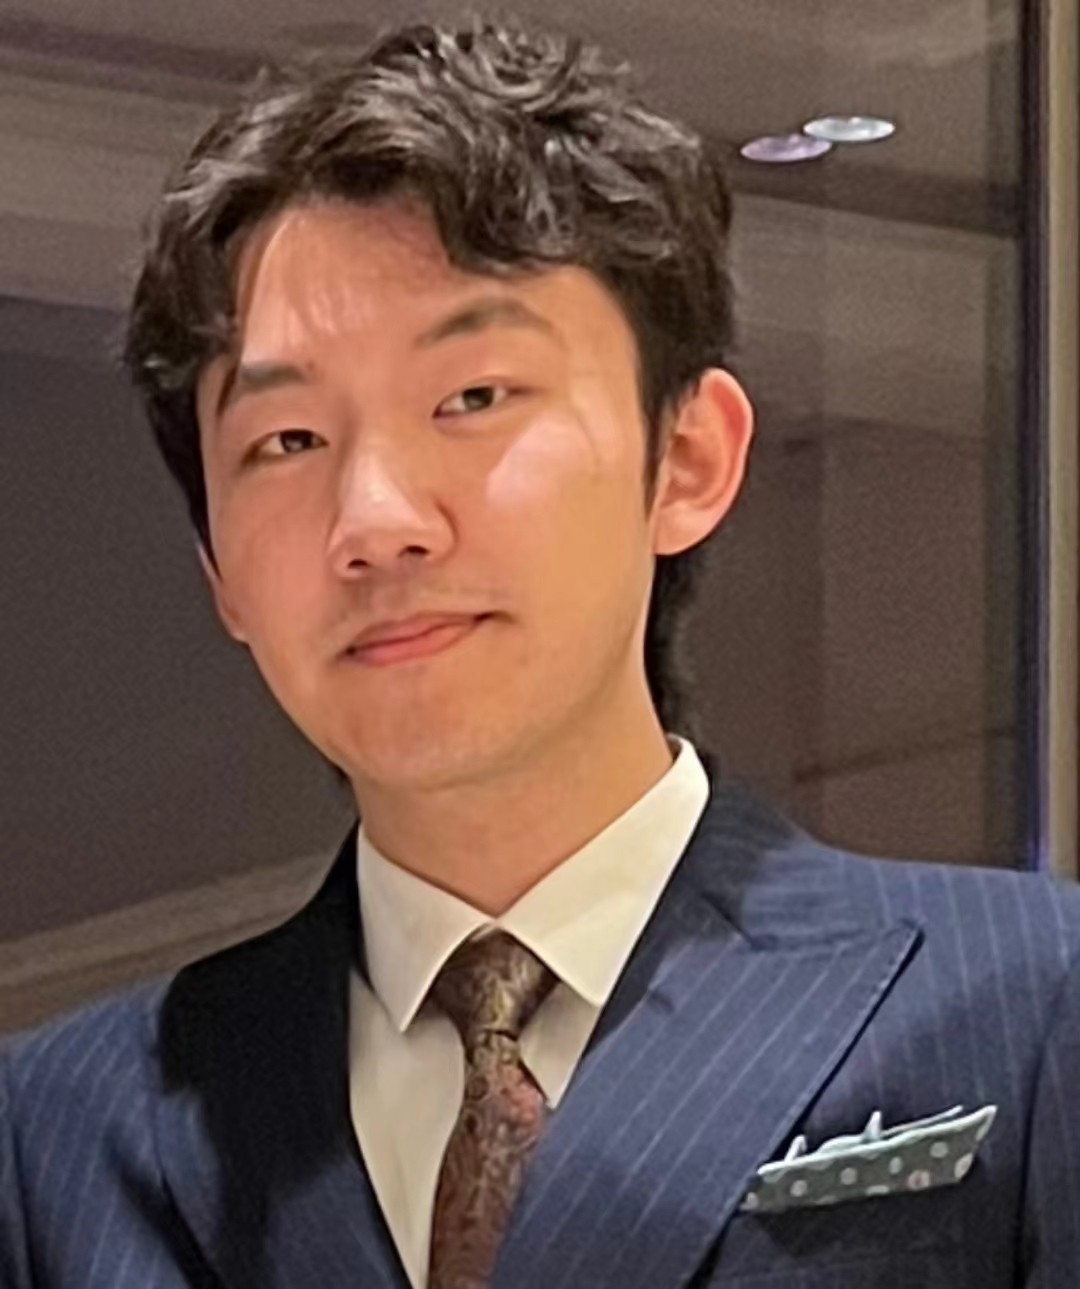
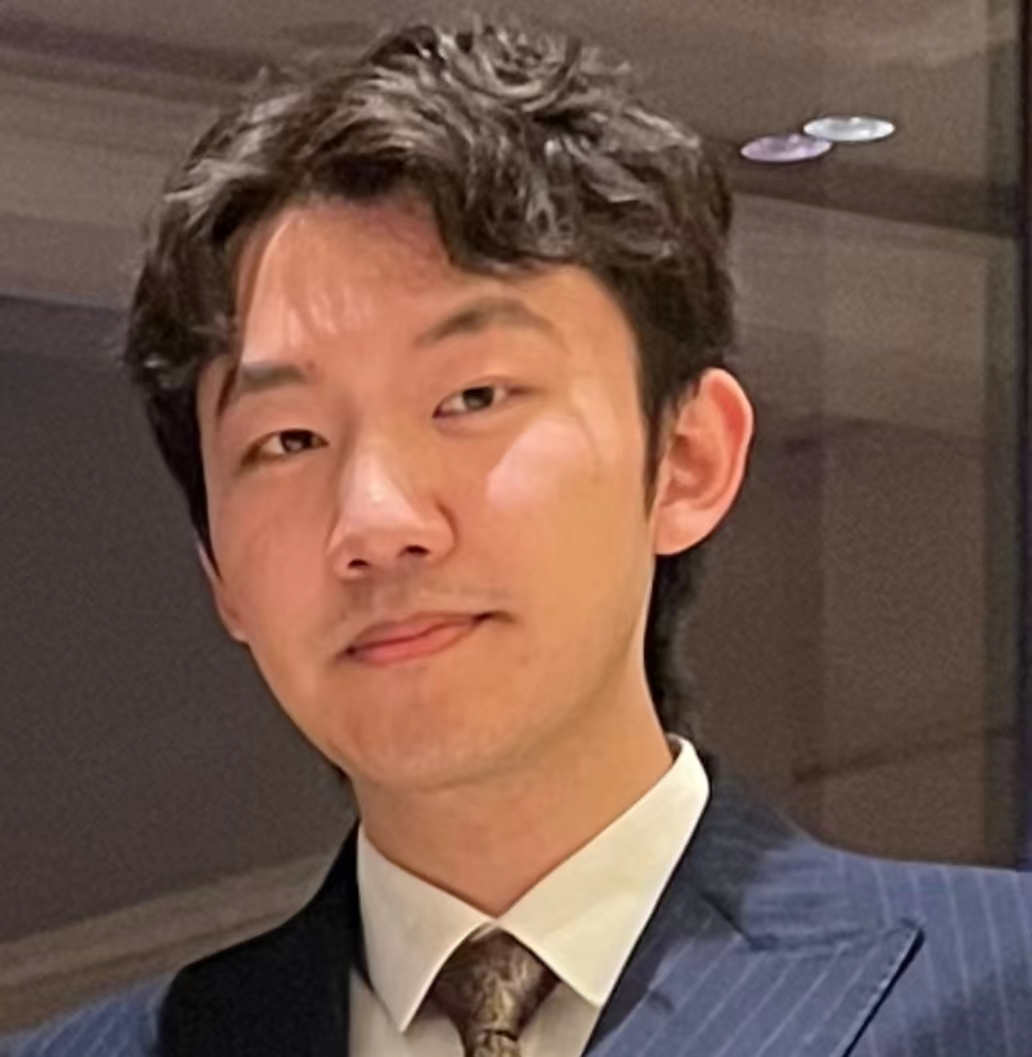
update

diff --git a/index.html b/index.html
@@ -153,7 +153,7 @@ $(function(){
 
 <div>
   
-<img style="width: 100px;float: left;" src="images/wanhui.jpeg">
+<img style="width: 100px;float: left;" src="images/shenghuozhao.jpeg">
 
 <div style="position: relative; left:20px;">
 <div style="font-size:24px;font-weight: 300">Zhiyuan Yan（晏志远）</div>
